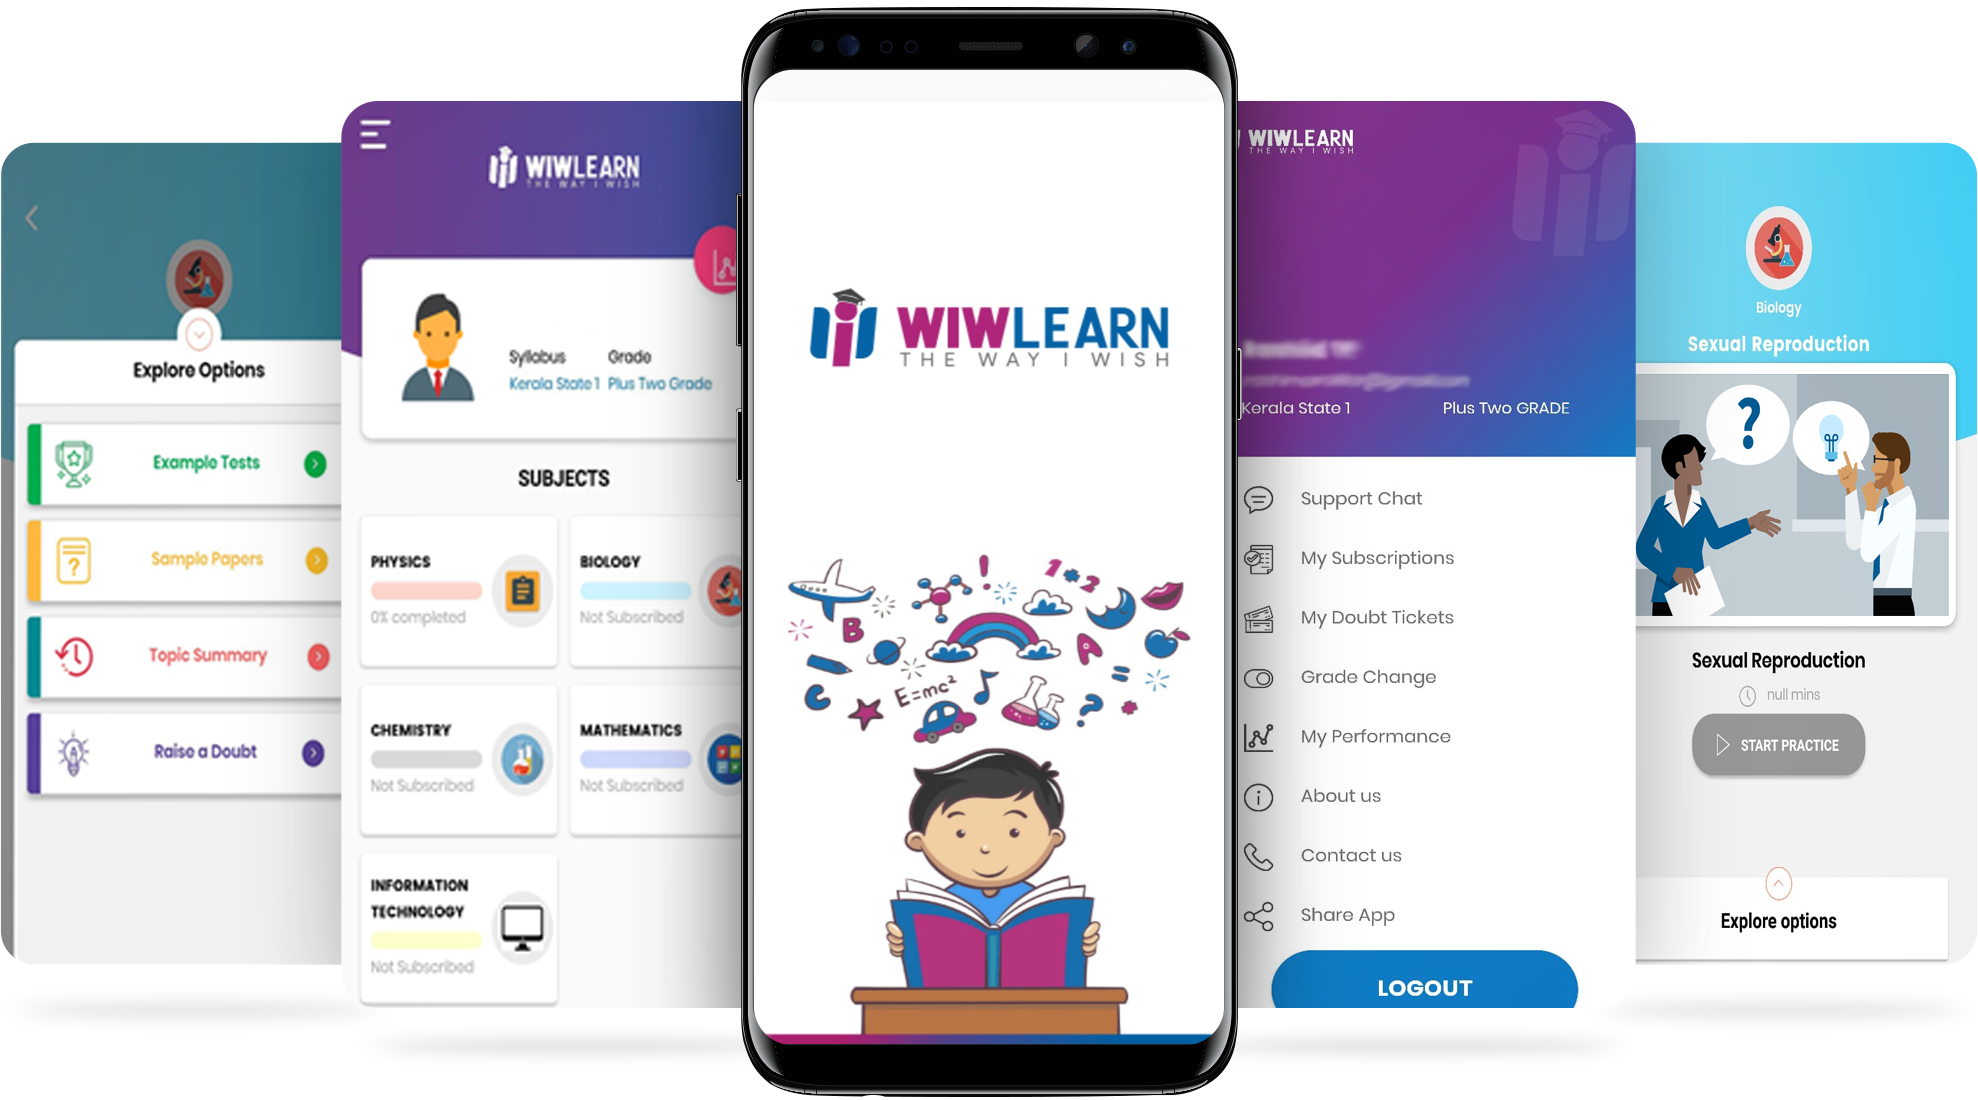
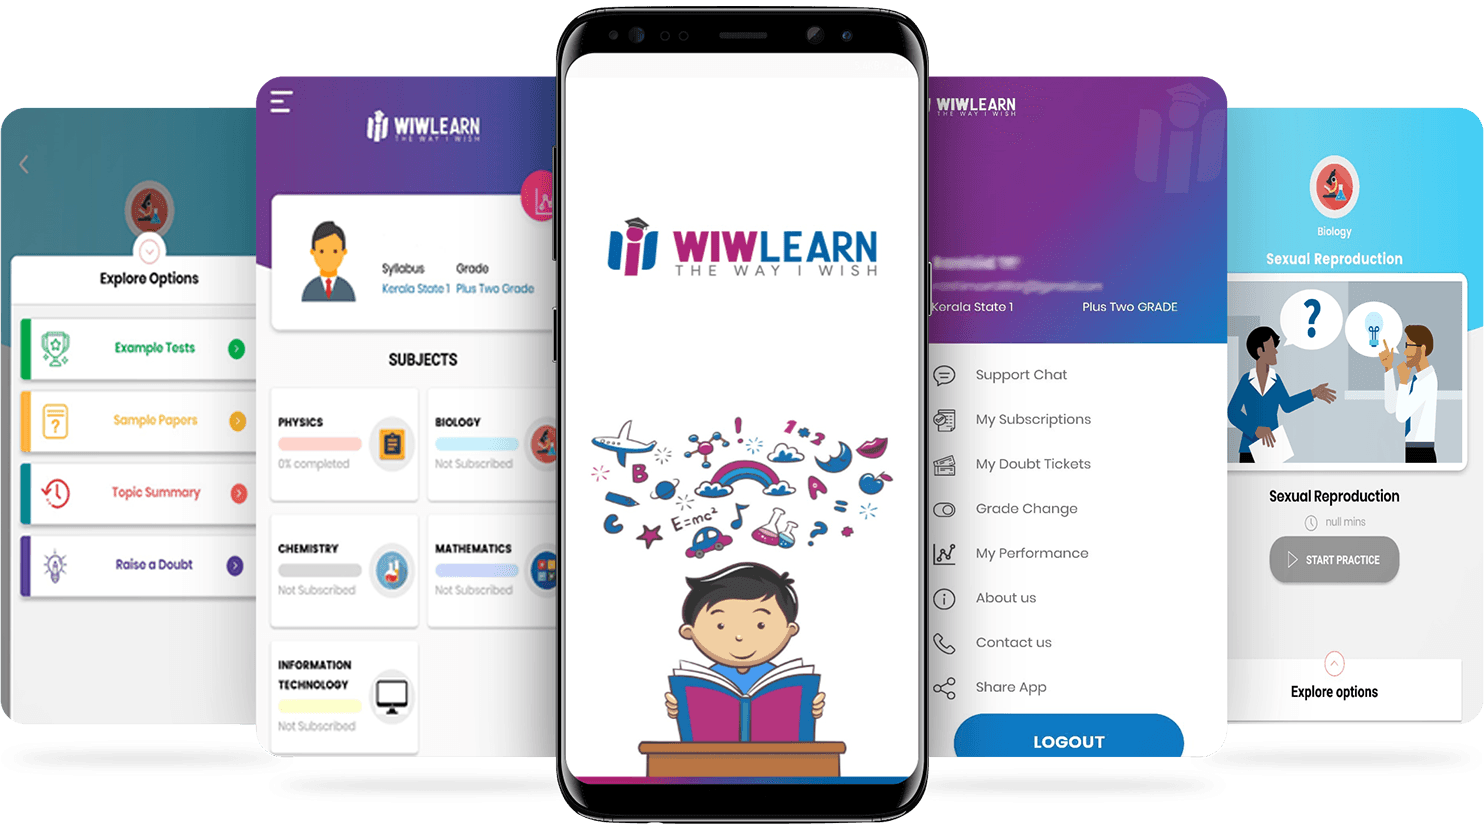
hero change

diff --git a/src/app/home-page/home-page.component.html b/src/app/home-page/home-page.component.html
@@ -19,7 +19,7 @@
             <!-- <button class="btn btn-primary btn-theme" (click)="moveTo(tourSec)" >Download Now</button> -->
         </div>
         <div class="col-md-6 content-photo mt-md-0 mt-5">
-          <img src="assets/images/hero-sm.png" class="img-fluid" alt="main image">
+          <img src="assets/images/hero.png" class="img-fluid" alt="main image">
         </div>
       </div>
       <div class="clear"></div>
